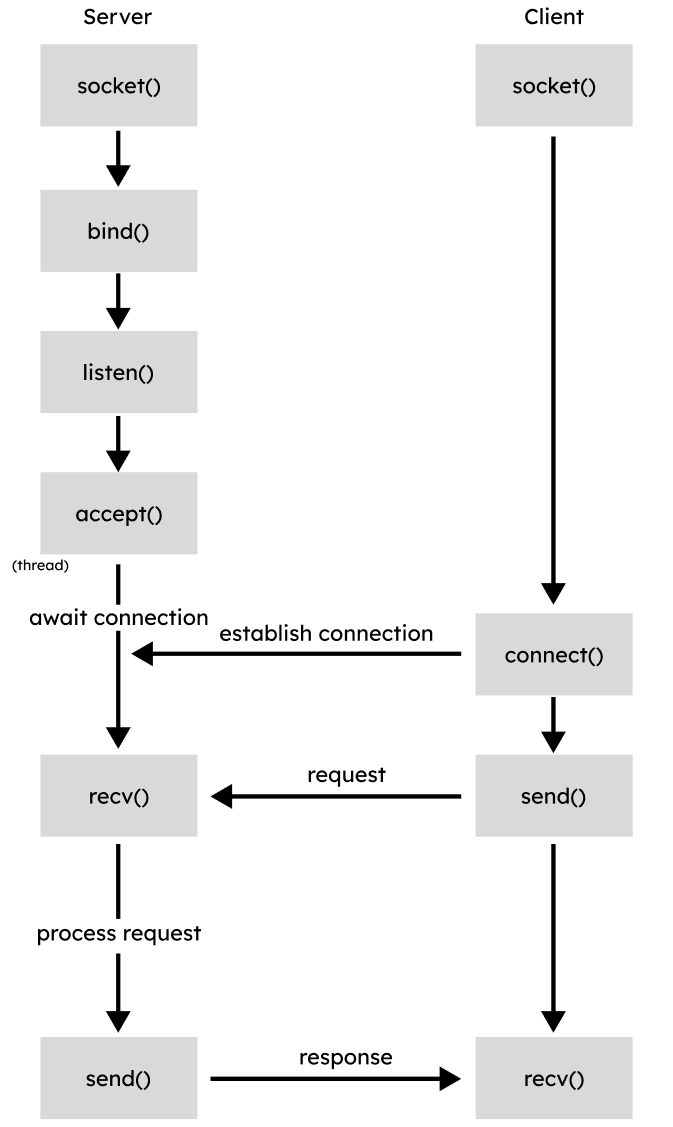
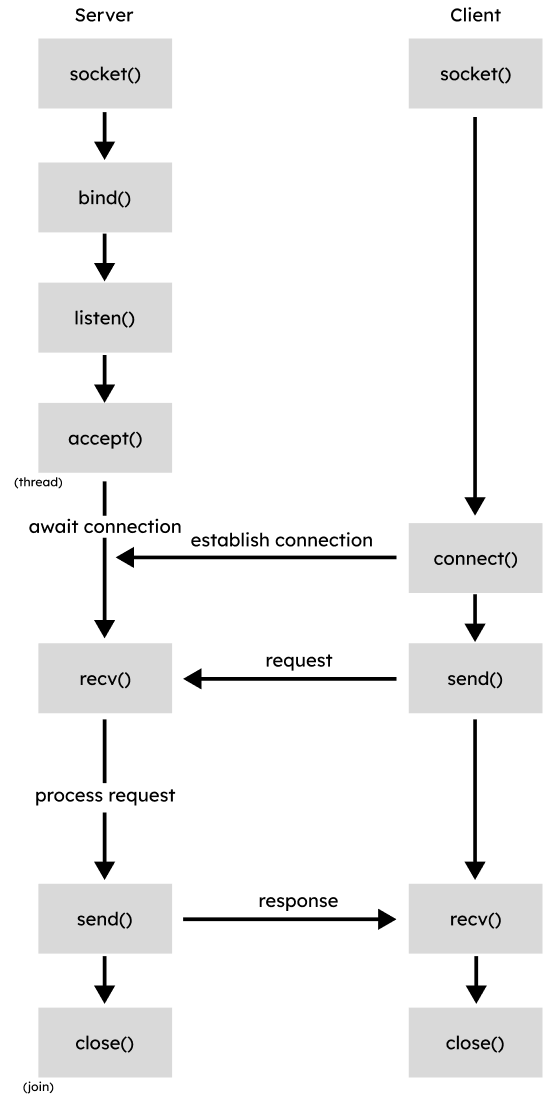
update networks lab 1

Changed region(s): [[0.0307, 0.0, 0.7058, 1.0], [0.7058, 0.0, 0.9819, 1.0]]

diff --git a/labs/ense-472/lab-1/index.html b/labs/ense-472/lab-1/index.html
@@ -148,7 +148,9 @@
     </div></div></section>
 <section id="introduction"><button class="collapsible">Introduction</button><div class="text-content"><div class="text-inner">
 
-      <p>In this lab, we will investigate network programming by creating some simple chat applications in Python. We will begin by looking at low level APIs, which is more similar to c or c++ interfaces on Unix, though much easier to work with. We will examine how network communication works from a top-down approach, starting with the programs, and then moving through the different layers of the network stack, as is necessary to understand the problem. A common problem with network programming is that when there are bugs, it is difficult to assess if it is a programming error or a network error, and for these reasons a thorough understanding of the entire network stack is required for Software Systems Engineers.</p>
+      <p>In this lab, we will investigate network programming by creating a simple chat application in Python. To begin, we will look at sockets, low level code, which is more similar to c or c++ interfaces on Unix, though a bit easier to work with. We will examine how network communication works from a top-down approach, starting with the programs, and then moving through the different layers of the network stack, as is needed to understand the problem.</p>
+
+      <p>A common issue with network programming is that when there are bugs, it is difficult to assess if it is a programming error or a network error. For this reason, a thorough understanding of the entire network stack is required for Software Systems Engineers.</p>
 
     </div></div></section>
 <section id="part1quickprimeronpython"><button class="collapsible">Part 1: Quick Primer on Python</button><div class="text-content"><div class="text-inner">
@@ -158,20 +160,20 @@
       <div class="language-plaintext highlighter-rouge"><div class="highlight"><pre class="highlight"><code>python ense-472-lab-1-warmup.py
 </code></pre></div>      </div>
 
-      <p>Depending on your installation settings, which command you will need to run will differ, (e.g. <code class="language-plaintext highlighter-rouge">py</code>, <code class="language-plaintext highlighter-rouge">py3</code>). Ensure the first line prints <code class="language-plaintext highlighter-rouge">python 3</code>. You can also ensure you are on python 3 by using <code class="language-plaintext highlighter-rouge">python --version</code> which should list 3.X.X. I will be doing these exercises on python 3.10.X.</p>
+      <p>Depending on your installation settings, the command you need to run may differ, (e.g. <code class="language-plaintext highlighter-rouge">py</code>, <code class="language-plaintext highlighter-rouge">py3</code>). When starting a python terminal, ensure the first line prints <code class="language-plaintext highlighter-rouge">python 3</code>. You can also ensure you are on python 3 by using <code class="language-plaintext highlighter-rouge">python --version</code> which should list 3.X.X. I will be doing these exercises on python 3.10.X.</p>
 
       <p>Note: if you have already taken ENSE 350, you will recall we used Jupyter Notebook for running python. That will not be approapraite for our network programming, as we will often be running servers which will need to run continuously in a single terminal window.</p>
 
     </div></div></section>
 <section id="part2networkingbasicsreview"><button class="collapsible">Part 2: Networking Basics Review</button><div class="text-content"><div class="text-inner">
 
-      <p>Network programming is essentially inter-process communication, where one program that you create interacts with another program you (or someone else) created. This program may be running on the same device, or may be running across the world. This is a complex challenge, and the solution is one of the most complete and complex software systems in the world.</p>
+      <p>Network programming is essentially inter-process communication, where one program that you create interacts with another program you (or someone else) created. These programs may be running on the same device, or may be running across the world. Typically, interprocess communication on the same device occurs through multiple threads and shared memory, however, running them across multiple devices will require a more complex approach. This is a complex challenge, and the current solution makes use of a complete and complex software system - the internet.</p>
 
       <p>There are a number of concepts that are worth reviewing to help with this lab:</p>
 
       <h3 id="client">Client</h3>
 
-      <p>The client is the device (or application) which initiates the request, which will be handled by a server. These are typically (but not always) initiated directly by a user issuing a command.</p>
+      <p>The client is the device (or application) which initiates a request, which will be handled by a server. These are often (but not always) initiated directly by a user issuing a command.</p>
 
       <p>e.g. a web browser, a time-lookup client (ntp), a dns-lookup client</p>
 
@@ -189,29 +191,31 @@
 
       <p><img src="res/one-server-mutliple-clients.png" alt="" /></p>
 
-      <p>Additionally, the server and client applications may be running on the save server, though this is not required:</p>
+      <p>Additionally, the server and client applications may be running on the same physical device, though this is not required:</p>
 
       <p><img src="res/server-client-same-device.png" alt="" /></p>
 
       <p>Finally, note that a single application may act as a server, or a client, or both, however a single thread will typically only be acting as one or the other!</p>
 
-      <p>One of the reasons that a client server model is useful is that it minimizes the number of connections. Consider a first person shooter game with 100 people. In a client-server model, we would only need 100 connections - each client to the server. However, if instead we wanted every player to connect to every other player, we would need 99 connections for the first player + 98 more connections for the second player + 97 more connections for the third player, etc… This would be a much more complex system.</p>
+      <p>One of the reasons that a client server model is useful is that it minimizes the total number of connections.</p>
 
       <p><img src="res/client-server-vs-clients-only.png" alt="" /></p>
 
+      <p>Consider a first person shooter game with 100 players. In a client-server model, we would only need 100 connections - each client to the server. However, if instead we wanted every player to connect to every other player, we would need 99 connections for the first player + 98 more connections for the second player + 97 more connections for the third player, etc… This would be a much more complex system!</p>
+
       <h3 id="address">Address</h3>
 
-      <p>An address is a way to uniquely identify which device is initiating a request. There are several types of addresses: public ipv4, private ipv4, ipv6, MAC, with different benefits and drawbacks depending on their usage. The simplest configuration of this is two devices on a Local Area Network (LAN), with each having a different IP address. Packets will be sent along ethernet, and accepted only by the host with the matching IP address</p>
+      <p>An address is a way to uniquely identify which device is initiating a request. There are several different addressing systems: public ipv4, private ipv4, ipv6, MAC, with different benefits and use cases. The simplest network configuration is two devices on a Local Area Network (LAN), with each having a different IP address. Packets will be sent along ethernet, and accepted only by the host with the matching IP address</p>
 
       <p><img src="res/two-devices-on-a-local-network.png" alt="" /></p>
 
-      <p>However, there are also more complex setups, such as a Wide Area Network (WAN) such as the internet, in which a connected series of routers will eventually deliver the packet to its destination.</p>
+      <p>However, there are also more complex setups, such as a Wide Area Network (WAN) such as the internet, in which a connected series of routers will send packets across multiple networks, and eventually deliver the packet to its destination.</p>
 
       <p><img src="res/two-devices-on-a-wan.png" alt="" /></p>
 
-      <p>Regardless of the complexity of the network, proper addressing ensures that packets get to their destination.</p>
+      <p>Regardless of the complexity of the network, proper addressing and proper network configuration can reliably deliver packets to their destination.</p>
 
-      <p>We can also access the device we are on using the localhost or loopback address <code class="language-plaintext highlighter-rouge">127.0.0.1</code>.</p>
+      <p>For now, we will be running multiple clients and a server on the same device. We can access the device we are on using the localhost or loopback address <code class="language-plaintext highlighter-rouge">127.0.0.1</code>.</p>
 
       <h3 id="port">Port</h3>
 
@@ -237,7 +241,7 @@ e.g. on a client, Firefox may be running 6 different tabs on port 52197, 52198, 
 
       <p>Protocols are the set of rules that dictate how devices on a network will interact with each other. For example, the TCP protocol favours reliability, wheras the UDP protocol favours speed. Depending on the protocol, a single transmitted message (“Hello World”), represented as bytes, may be broken up into a number of different packets, and even include some packets which are purely control information such as confirmations.</p>
 
-      <p>e.g. a very simple protocol in which we tell the server the length of the message, followed by delivering the actual message:</p>
+      <p>e.g. a very simple protocol we will create will tell the server the length of the message using a fixed number of bytes, followed by delivering the actual message using a variable number of bytes:</p>
 
       <p><img src="res/message-length-message-protocol.png" alt="" /></p>
 
@@ -301,7 +305,7 @@ e.g. on a client, Firefox may be running 6 different tabs on port 52197, 52198, 
 
       <p><code class="language-plaintext highlighter-rouge">num_clients = 1</code></p>
 
-      <p>We can avoid this using <code class="language-plaintext highlighter-rouge">semaphores</code> (locks), essentially, this will prevent the second thread from reading the variable until the first thread is done with it.</p>
+      <p>We can avoid this using a <code class="language-plaintext highlighter-rouge">lock</code>, or similar mechanisms like a semaphore. This will prevent the second thread from reading the variable until the first thread is done with it.</p>
 
       <p>With semaphores:</p>
 
@@ -325,7 +329,7 @@ e.g. on a client, Firefox may be running 6 different tabs on port 52197, 52198, 
 
       <p><code class="language-plaintext highlighter-rouge">num_clients = 2</code></p>
 
-      <p>Finally, it is sometimes important for your main thread to broadcast a message to each of your sub-threads. We can accomplish this using signals.</p>
+      <p>Finally, it is sometimes important for your main thread to broadcast a message to each of your sub-threads. We can accomplish this using thread events (signals).</p>
 
       <h3 id="encoding">Encoding</h3>
 
@@ -334,11 +338,11 @@ e.g. on a client, Firefox may be running 6 different tabs on port 52197, 52198, 
     </div></div></section>
 <section id="part3lowlevelnetworkinginpython"><button class="collapsible">Part 3: Low-level Networking in Python</button><div class="text-content"><div class="text-inner">
 
-      <p>In this section of the lab, we will look at some examples of low level networking using the <code class="language-plaintext highlighter-rouge">socket</code> library. In low-level networking, you have complete control over every byte sent and recieved over the network.</p>
+      <p>In this section of the lab, we will look at some examples of low level networking using the <code class="language-plaintext highlighter-rouge">socket</code> library. In low-level networking, you have complete control over every byte sent and recieved over the network. (Outside of overhead)</p>
 
-      <p>Let’s first look at an example of a client-only application which recieves time data from a centeral server:</p>
+      <p>Let’s first look at an example of a client-only application which recieves time data from a centeral server. This is an example of the daytime service, which is used for network debugging:</p>
 
-      <p>time_client.py</p>
+      <p><code class="language-plaintext highlighter-rouge">time_client.py</code></p>
       <div class="language-python highlighter-rouge"><div class="highlight"><pre class="highlight"><code><span class="c1"># the socket library contains low-level network operations
 </span><span class="kn">import</span> <span class="nn">socket</span>
 <span class="c1"># when creating a socket class (from the socket library), we need to describe the address type (AF_INET is IPv4), and the socket type. 
@@ -375,7 +379,7 @@ e.g. on a client, Firefox may be running 6 different tabs on port 52197, 52198, 
 
       <p>Okay, now we just need to take this code, and host it inside a server:</p>
 
-      <p>time_server.py</p>
+      <p><code class="language-plaintext highlighter-rouge">time_server.py</code></p>
       <div class="language-python highlighter-rouge"><div class="highlight"><pre class="highlight"><code><span class="kn">import</span> <span class="nn">socket</span>
 <span class="kn">import</span> <span class="nn">datetime</span>
 
@@ -406,6 +410,7 @@ e.g. on a client, Firefox may be running 6 different tabs on port 52197, 52198, 
 
       <p>Try running this code - nothing happens. But a server is running. Let’s try to connect to it, by modifying our time client such that:</p>
 
+      <p><code class="language-plaintext highlighter-rouge">time_client.py</code></p>
       <div class="language-python highlighter-rouge"><div class="highlight"><pre class="highlight"><code><span class="c1"># the socket library contains low-level network operations
 </span><span class="kn">import</span> <span class="nn">socket</span>
 <span class="c1"># when creating a socket class (from the socket library), we need to describe the address type (AF_INET is IPv4), and the socket type. 
@@ -429,7 +434,7 @@ e.g. on a client, Firefox may be running 6 different tabs on port 52197, 52198, 
 
       <p>However, it is much better if we handle each connection in an individual thread:</p>
 
-      <p>Let’s look at how threading works in the next section, and then return to this problem.</p>
+      <p>Let’s look at how threading works in the next section.</p>
 
     </div></div></section>
 <section id="part4threadingexampleinpython"><button class="collapsible">Part 4: Threading Example in Python</button><div class="text-content"><div class="text-inner">
@@ -608,7 +613,7 @@ e.g. on a client, Firefox may be running 6 different tabs on port 52197, 52198, 
 
       <p><img src="res/no-more-race-condition.png" alt="" /></p>
 
-      <p>With servers, we will have code which spawns a new thread which runs in an infinite loo. We will need to be able to send that code a shutdown signal to stop. Let’s see an example of that:</p>
+      <p>With servers, we will have code which spawns a new thread which runs in an infinite loop. We will need to be able to send that code a shutdown signal to stop. Let’s see an example of that:</p>
 
       <div class="language-python highlighter-rouge"><div class="highlight"><pre class="highlight"><code><span class="kn">import</span> <span class="nn">threading</span>
 <span class="kn">import</span> <span class="nn">time</span>
@@ -645,7 +650,7 @@ e.g. on a client, Firefox may be running 6 different tabs on port 52197, 52198, 
     </div></div></section>
 <section id="part5asimplethreadedechoclient"><button class="collapsible">Part 5: A Simple Threaded Echo Client</button><div class="text-content"><div class="text-inner">
 
-      <p>Using what we know, we are going to put together a simple chatting application. We will make it part of the way together, and then you will complete the rest as the assignment</p>
+      <p>Using what we have learned, we are going to put together a simple chat application. We will partially complete the application together, and then you will complete the rest as the assignment.</p>
 
       <p>Let’s grab some starting code to start:</p>
 
@@ -857,9 +862,9 @@ e.g. on a client, Firefox may be running 6 different tabs on port 52197, 52198, 
     <span class="n">server</span><span class="p">.</span><span class="n">close</span><span class="p">()</span>
 </code></pre></div>      </div>
 
-      <p>No changes needed in chat_client.py</p>
+      <p>No changes needed in <code class="language-plaintext highlighter-rouge">chat_client.py</code></p>
 
-      <p>At this stage, we are successfully sending as many messages as we want to the server. However, if we try to shut down our server with <code class="language-plaintext highlighter-rouge">ctrl+c</code>, we still have a thread hanging which will prevent closing. Let’s try to account for this with a signal. Additionally, we will aslo need to occasionally stop listening to our connection so that we may check if the singal has been set - we will do this by adding a timeout to our connection, which will raise a socket.timeout error every second, which we may use to return to our while loop check. Finally, let’s not forget to join our threads.</p>
+      <p>At this stage, we are successfully sending as many messages as we want to the server. However, if we try to shut down our server with <code class="language-plaintext highlighter-rouge">ctrl+c</code>, we still have a thread hanging which will prevent closing. Let’s try to account for this with a signal. Additionally, we will also need to occasionally stop listening to our connection so that we may check if the signal has been set - we will do this by adding a timeout to our connection, which will raise a socket.timeout error every second, which we may use to return to our while loop condition. Finally, let’s not forget to join our threads once they complete!</p>
 
       <p>While we are at it, let’s also modify the client so that it can alternatively be exited with <code class="language-plaintext highlighter-rouge">ctrl+c</code>.</p>
 
@@ -950,7 +955,7 @@ e.g. on a client, Firefox may be running 6 different tabs on port 52197, 52198, 
     <span class="n">client</span><span class="p">.</span><span class="n">close</span><span class="p">()</span>
 </code></pre></div>      </div>
 
-      <p>Try creating a few clients, connect them, and then close the server. The server should close down gracefully. However, we are not notifying the clients that we are shutting down, so they will hang, and unfortunately since <code class="language-plaintext highlighter-rouge">input()</code> is a blocking command, even if they did get the message, they would not be able to handle it. There is no way to handle this in vanilla python, though several libraries exist which could help us, but that is outside the scope of this lab.</p>
+      <p>Try creating a few clients, connect them, and then close the server. The server should close down gracefully. However, we are not notifying the clients that we are shutting down, so they will hang, and unfortunately since <code class="language-plaintext highlighter-rouge">input()</code> is a blocking command, even if they did get the message, they would not be able to handle it. There is no way to handle this in vanilla python, though several libraries exist which could help us, but that is outside the scope of this lab. We will just need to live with this limitation.</p>
 
       <p>One thing we have been doing so far, which is not great, is the following line:</p>
 
@@ -1078,7 +1083,7 @@ e.g. on a client, Firefox may be running 6 different tabs on port 52197, 52198, 
     </div></div></section>
 <section id="assignment"><button class="collapsible">Assignment</button><div class="text-content"><div class="text-inner">
 
-      <p>So far, we have successfully made our chat application send information one way, from the user to the server. We will now add</p>
+      <p>So far, we have successfully made our chat application send information one way, from the user to the server. We will now add some additional features in three phases:</p>
 
       <p>Phase 1: Echo Service</p>
 
@@ -1086,7 +1091,7 @@ e.g. on a client, Firefox may be running 6 different tabs on port 52197, 52198, 
 
       <p>Hints:</p>
       <ul>
-        <li>You may wish to copy some of the send code from the client to the server. However, remember the client only has a single connection, wheras the server has multiple. How will you handle this?</li>
+        <li>You may wish to copy some of the send code from the client to the server. However, remember the client only has a single connection, whereas the server has multiple. How will you handle this?</li>
         <li>You may wish to add a thread to the client to handle incoming messages, as the input read code will block code progression in main!
           <ul>
             <li>Be sure to join this thread if the client disconnects before shutting down!</li>
